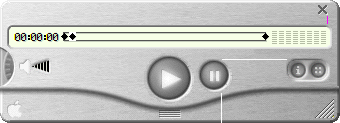
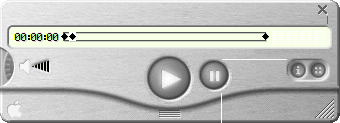
applying vis mask

Changed region(s): [[0.7941, 0.2439, 0.9706, 0.3659]]

diff --git a/packages/webamp-modern/src/skin/makiClasses/Vis.ts b/packages/webamp-modern/src/skin/makiClasses/Vis.ts
@@ -327,20 +327,20 @@ type  PaintBarFunction = (
   peakHeight: number
 ) => void;
 
-function octaveBucketsForBufferLength(bufferLength: number): number[] {
-  const octaveBuckets = new Array(NUM_BARS).fill(0);
+function octaveBucketsForBufferLength(bufferLength: number, barCount:number=NUM_BARS): number[] {
+  const octaveBuckets = new Array(barCount).fill(0);
   const minHz = 200;
   const maxHz = 22050;
-  const octaveStep = Math.pow(maxHz / minHz, 1 / NUM_BARS);
+  const octaveStep = Math.pow(maxHz / minHz, 1 / barCount);
 
   octaveBuckets[0] = 0;
   octaveBuckets[1] = minHz;
-  for (let i = 2; i < NUM_BARS - 1; i++) {
+  for (let i = 2; i < barCount - 1; i++) {
     octaveBuckets[i] = octaveBuckets[i - 1] * octaveStep;
   }
-  octaveBuckets[NUM_BARS - 1] = maxHz;
+  octaveBuckets[barCount - 1] = maxHz;
 
-  for (let i = 0; i < NUM_BARS; i++) {
+  for (let i = 0; i < barCount; i++) {
     const octaveIdx = Math.floor((octaveBuckets[i] / maxHz) * bufferLength);
     octaveBuckets[i] = octaveIdx;
   }
@@ -406,10 +406,13 @@ class BarPaintHandler extends VisPaintHandler {
 
     if(this._vis._bandwidth=='wide'){
       this.paintFrame = this.paintFrameWide.bind(this)
+      this._octaveBuckets = octaveBucketsForBufferLength(this._bufferLength);
     } else {
       // thin
-      this._barPeaks = new Array(this._vis._canvas.width).fill(0);
-      this._barPeakFrames = new Array(this._vis._canvas.width).fill(0);
+      const w = this._vis._canvas.width;
+      this._barPeaks = new Array(w).fill(0);
+      this._barPeakFrames = new Array(w).fill(0);
+      this._octaveBuckets = octaveBucketsForBufferLength(this._bufferLength, w);
       this.paintFrame = this.paintFrameThin.bind(this);
     }
     
@@ -480,8 +483,10 @@ class BarPaintHandler extends VisPaintHandler {
     this._analyser.getByteFrequencyData(this._dataArray);
     const heightMultiplier = h / 256;
     for (let j = 0; j < w - 1; j++) {
-      const start = Math.round(j/w * this._dataArray.length);
-      const end = Math.round((j+1)/w * this._dataArray.length );
+      // const start = Math.round(j/w * this._dataArray.length);
+      // const end = Math.round((j+1)/w * this._dataArray.length );
+      const start = this._octaveBuckets[j];
+      const end = this._octaveBuckets[j + 1];
       let amplitude = 0;
       amplitude /= end - start;
       for (let k = start; k < end; k++) {
